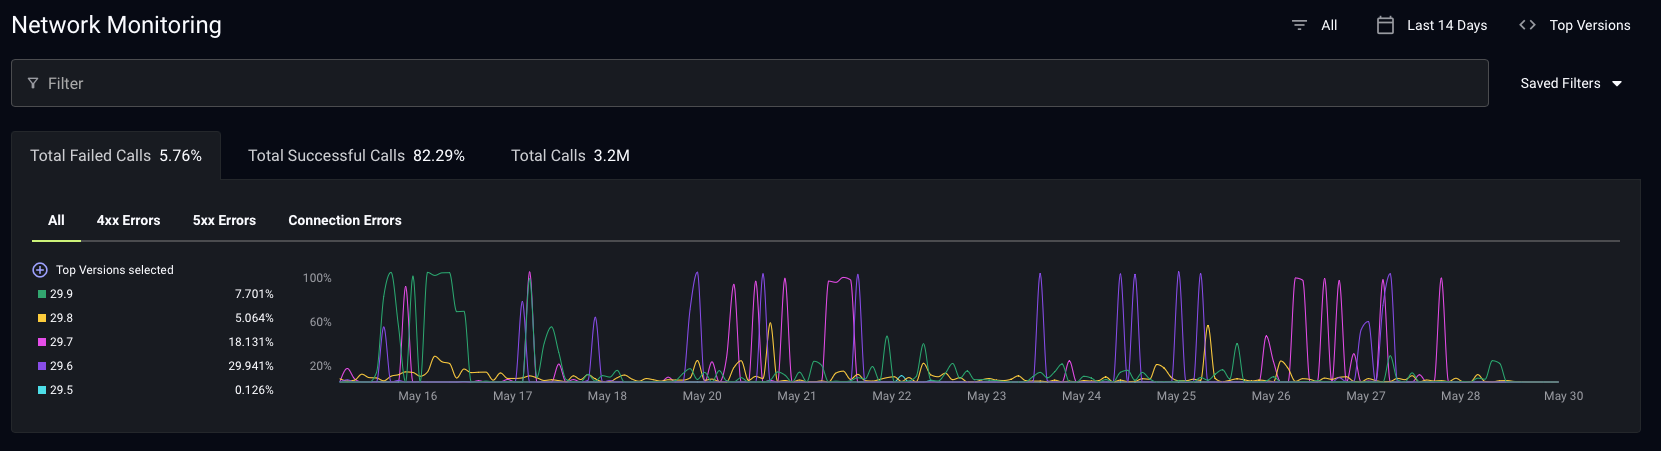
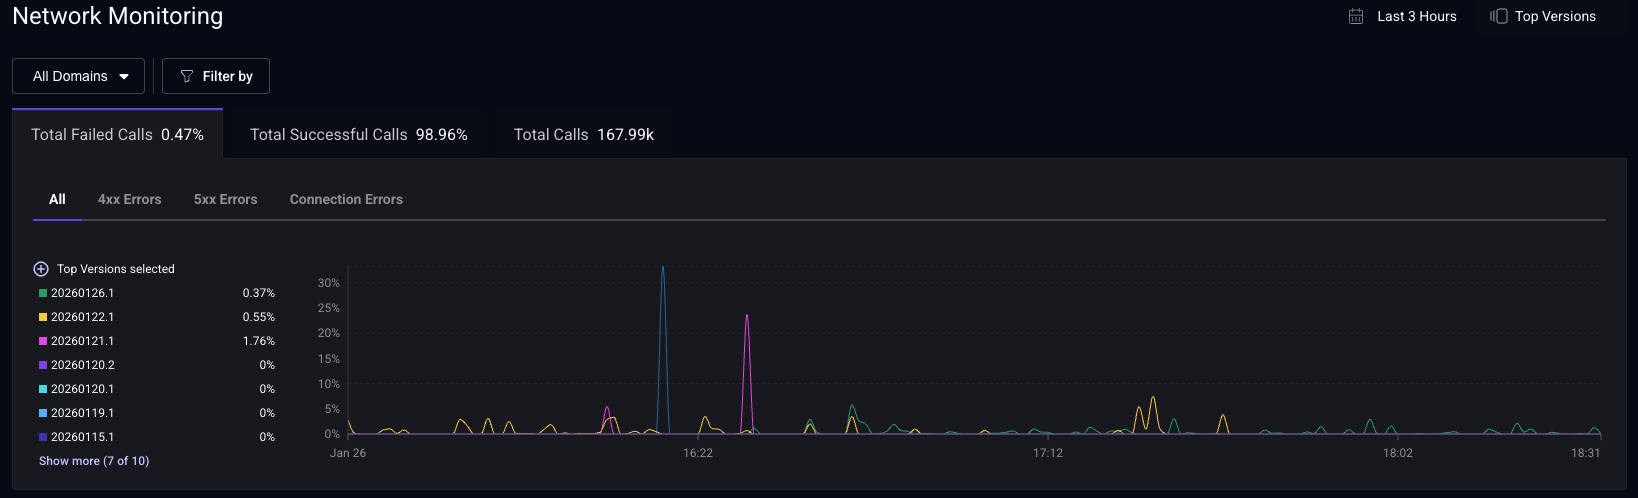
[EMBR-10127] Explain what Toal Sucessful calls and Total Failed Calls mean

diff --git a/src/pages/_Home/components/Categories/Categories.tsx b/src/pages/_Home/components/Categories/Categories.tsx
@@ -221,7 +221,7 @@ const CATEGORIES: Record<Categories, HomeCardProps[]> = {
     {
       title: "Network Monitoring",
       description:
-        "Identify and resolve the networking issues behind your app’s crashes.",
+          "Identify and resolve the networking issues behind your app’s crashes.",
       icon: <IconWifi {...DEFAULT_TABLER_ICON_PROPS} />,
       linkTo: "/product/network",
     },

diff --git a/docs/product/boards/custom-dashboards.md b/docs/product/boards/custom-dashboards.md
@@ -15,11 +15,12 @@ To get started, click on "Add new widget" in the menu by your dashboard name.
 You can create multiple types of visualizations. A table of which visualizations are supported is shown below:
 
 | Chart Type | Crashes | Network | Logs | Issues | Moments | Sessions | Spans | Historical | Multi-query |
-| ----------|-------|-------|----|------|-------|--------|-----|----------|----------- |
-| Line | :white_check_mark: | :white_check_mark: | :white_check_mark: | :x: | :white_check_mark: | :white_check_mark: | :white_check_mark: | :white_check_mark: | :white_check_mark: |
-| Table | :white_check_mark: | :white_check_mark: | :white_check_mark: | :white_check_mark: | :white_check_mark: | :white_check_mark: | :white_check_mark: | :x: | :x: |
-| Bar | :white_check_mark: | :white_check_mark: | :white_check_mark: | :x: | :white_check_mark: | :white_check_mark: | :white_check_mark: | :x: | :x: |
-| Pie | :white_check_mark: | :white_check_mark: | :white_check_mark: | :x: | :white_check_mark: | :white_check_mark: | :white_check_mark: | :x: | :x: |
+|------------|-------|-------|----|------|-------|--------|-----|----------|----------- |
+| Line       | :white_check_mark: | :white_check_mark: | :white_check_mark: | :x: | :white_check_mark: | :white_check_mark: | :white_check_mark: | :white_check_mark: | :white_check_mark: |
+| Table      | :white_check_mark: | :white_check_mark: | :white_check_mark: | :white_check_mark: | :white_check_mark: | :white_check_mark: | :white_check_mark: | :x: | :x: |
+| Bar        | :white_check_mark: | :white_check_mark: | :white_check_mark: | :x: | :white_check_mark: | :white_check_mark: | :white_check_mark: | :x: | :x: |
+| Pie        | :white_check_mark: | :white_check_mark: | :white_check_mark: | :x: | :white_check_mark: | :white_check_mark: | :white_check_mark: | :x: | :x: |
+| KPI        | :white_check_mark: | :white_check_mark: | :white_check_mark: | :x: | :white_check_mark: | :white_check_mark: | :white_check_mark: | :x: | :x: |
 
 ## Spans (Traces)
 
@@ -33,7 +34,7 @@ Create graphs monitoring Spans performance. You can filter and group by name, ou
 
 ## Combined Time Series (Line Charts)
 
-You can also create Combined graphs in Line vizualizations. With Combined graphs, you can visualize up to 10 time series together and optionally create a custom time series using arithmetic operators.
+You can also create combined graphs in Line visualizations. With combined graphs, you can visualize up to 10 time series together and optionally create a custom time series using arithmetic operators.
 
 **NOTE:** as of 2025-05-20, the chart builder has been improved. Any legacy charts using fills have been moved to multi-query line charts.
 
@@ -41,7 +42,7 @@ You can also create Combined graphs in Line vizualizations. With Combined graphs
 
 For example, you want to get a rate over the last 24 hours of the sum of crashes and ANR's with a duration of 3.5 to 10 second relatve to your total sessions, grouped by App Version. To do this:
 
-1. For the inital query A, select Crashes as the source, Crash Count as the metric, and App Version in the group by field.\
+1. For the initial query A, select Crashes as the source, Crash Count as the metric, and App Version in the group by field.\
     a. You can also add a group by here. For this example, we group by App Version. See more on grouping functionality below.\
     b. Formulas and multiple queries are only supported on line charts currently.
 2. On query A, click the Filter By button below the query details and filter for State = foreground.
@@ -63,7 +64,7 @@ Since the Formula field is optional, you can visualize up to 10 time series on t
 
 When you combine time series that have groupings defined with a formula, it’s important to understand the rules for how time series are joined given their groupings. The examples below use two time series, but the same rules apply with any greater number of time series.
 
-As a rule, if you have **two timeseries that both have groupings**, the grouping of one time series **must be a subset of the other**. The common subset is the join key. Otherwise the combination is invalid.
+As a rule, if you have **two time series that both have groupings**, the grouping of one time series **must be a subset of the other**. The common subset is the join key. Otherwise the combination is invalid.
 
 #### **Valid Groupings:**
 
@@ -136,7 +137,7 @@ Our Issues Widget, lets you specify how to list a table of [Issues](/product/iss
 
 1. To get started, select the Table visualization option and Issues as the source when making a new Widget.
 2. Adjust the columns you want to display and how to filter the Issues.
-3. Then once you save, you'll see this table on your dashboard! Issues are sorted by percentage of users impacted in descending order.
+3. Then, once you save, you'll see this table on your dashboard! Issues are sorted by percentage of users impacted in descending order.
 
    <img src={require('@site/static/images/custom_dashboards/Issues_Table.png').default} style={{ width: '75%', height: '75%' }} alt="Issues table widget" />
 

diff --git a/docs/product/network/network-monitoring.md b/docs/product/network/network-monitoring.md
@@ -8,24 +8,24 @@ sidebar_position: 1
 
 ## Network Summary
 
-The Network Summary dashboard offers a high-level overview of your network requests. 
-You can view the number of requests, average duration, and error counts grouped by 4xx/5xx status codes and connection errors. 
+
+The Network Monitoring dashboard offers a high-level overview of your network requests. 
+You can view the number of requests, and error counts grouped by 4xx/5xx status codes and connection errors. 
 These metrics are also grouped by app version, enabling you to track changes in network performance over time with your releases. Use the filters to analyze network performance based on specific domains, countries, personas, and more.
-
-#### Total Successful Calls vs Total Failed Calls
-
-- **Total Successful Calls**: The percentage of network requests that returned a 2xx HTTP status code.
-- **Total Failed Calls**: The percentage of network requests that returned a 4xx or 5xx HTTP status code, or resulted in a connection error (e.g., timeouts, DNS failures, or network unavailability).
-
-Note that 1xx and 3xx responses (redirects) are excluded from both metrics. As a result, the sum of Total Successful Calls and Total Failed Calls may not equal 100%.
 
 <img src={require('@site/static/images/features/network-monitoring/network-monitoring-1.png').default} alt="Network Summary Overview" />
 
-### Endpoints List
+### Total Successful Calls vs Total Failed Calls
 
-This table presents a comprehensive list of all your network requests, organized by method, domain, and path. For each endpoint, you can view the average duration, number of requests, median duration, and error percentage. The table is sortable by each column, allowing you to quickly identify the slowest endpoints or those with the highest error rates. Use the search bar to locate specific endpoints efficiently.
+- **Total Successful Calls**: Percentage of requests that returned a 2xx response.
+- **Total Failed Calls**: Percentage of requests that returned a 4xx or 5xx response, or failed due to a connection error (timeouts, DNS failures, network unavailability).
 
-<img src={require('@site/static/images/features/network-monitoring/network-monitoring-2.png').default} alt="Network Summary Overview" />
+:::warning These metrics don't add up to 100%
+1xx (informational) and 3xx (redirects) responses are excluded from both metrics. 
+To analyze these responses, create a [custom dashboard](/product/boards/custom-dashboards/) using the **Network Request** metric grouped by **Status Code**.
+:::
+
+<img src={require('@site/static/images/features/network-monitoring/network-monitoring-1.1.png').default} alt="Custom Dashboard" />
 
 ### Domain Type
 
@@ -36,3 +36,11 @@ Easily filter by domain type to focus on first-party, third-party, or media requ
 Embrace can help you diagnose network errors by forwarding network spans to your backend monitoring service. Read more about [Network Spans Forwarding](/product/network-spans-forwarding/).
 
 :::
+
+## Endpoints List
+
+This table presents a comprehensive list of all your network requests, organized by method, domain, and path. For each endpoint, you can view the average duration, number of requests, median duration, and error percentage. The table is sortable by each column, allowing you to quickly identify the slowest endpoints or those with the highest error rates. Use the search bar to locate specific endpoints efficiently.
+
+<img src={require('@site/static/images/features/network-monitoring/network-monitoring-2.png').default} alt="Network Summary Overview" />
+
+

diff --git a/docs/product/network/index.md b/docs/product/network/index.md
@@ -11,7 +11,7 @@ Make sense of all your application's requests with the Networking page.
 
 Embrace's SDKs provide automatic tracking of all network requests.
 
-In the dashboard, developers can see a comprehensive view of network requests, allowing them to assess the performance of each request and its impact on your users. Developers can:
+In the dashboard, you can see a comprehensive view of network requests, allowing you to assess the performance of each request and its impact on your users. You can:
 
 - [Monitor network calls](/product/network/network-monitoring.md).
 - [Group network requests by path](/product/network/network-grouping-rules.md) to dig deeper into correlated issues.
@@ -19,7 +19,7 @@ In the dashboard, developers can see a comprehensive view of network requests, a
 
 ## Learn more
 
-This walkthrough video will show you how developers make sense of networking in Embrace's dashboard:
+This walkthrough video will show you how you make sense of networking in Embrace's dashboard:
 
 <div>
     <iframe width="660" height="415" src="https://www.youtube.com/embed/3FR3dRDxZVI" title="YouTube video player" frameborder="0" allow="accelerometer; autoplay; clipboard-write; encrypted-media; gyroscope; picture-in-picture; web-share" referrerpolicy="strict-origin-when-cross-origin" allowfullscreen></iframe>
